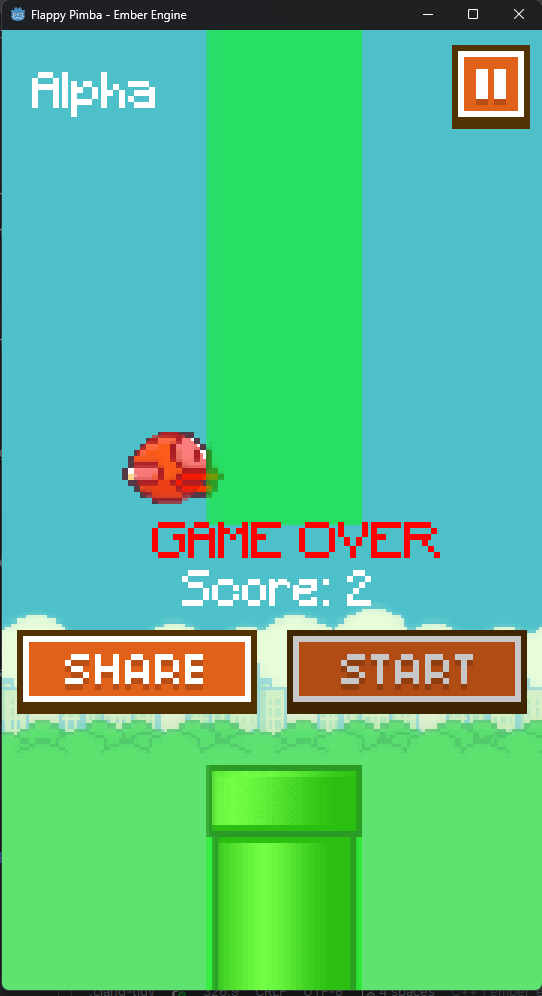
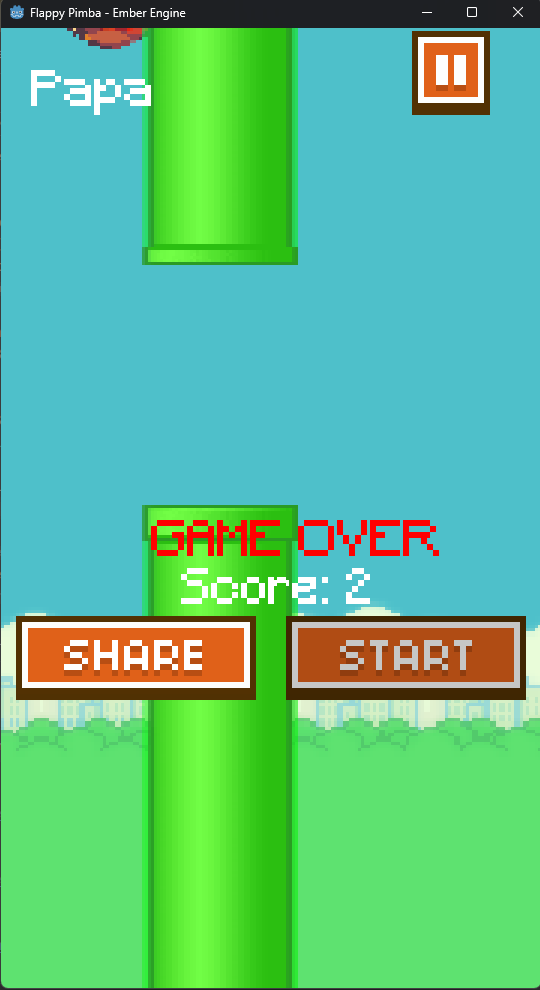
fix: top pipe sprite

diff --git a/game/main.cpp b/game/main.cpp
@@ -119,19 +119,19 @@ void spawn_pipe() {
         top_pipe->set_layer(1);
         top_pipe->set_collision_mask((1 << 0));
 
-        float top_body_center_y = gap_top - (top_height / 2.0f);
+        float top_body_center_y = gap_top * 0.5f;
         top_pipe->set_transform({{spawn_x, top_body_center_y}, {1.f, 1.f}, 0.0f});
-        //
-        // Sprite2D* top_sprite = new Sprite2D(pipe_texture);
-        // top_sprite->set_region({0, 0, 52, 320}, {PIPE_WIDTH, top_height});
-        // top_sprite->set_transform({{-PIPE_WIDTH * 0.5f,0}, {1.f, 1.f}, 0.0f});
-        // top_sprite->set_flip_vertical(true);
-        // top_pipe->add_child("Sprite", top_sprite);
 
+        Sprite2D* top_sprite = new Sprite2D(pipe_texture);
+        top_sprite->set_region({0, 0, 52, 320}, {PIPE_WIDTH, top_height});
+        top_sprite->set_flip_vertical(true);
+
+        top_pipe->add_child("Sprite", top_sprite);
         ctx.root->add_child("TopPipe", top_pipe);
     }
 
-    float bottom_height = GEngine->Config.get_viewport().height - gap_bottom;
+    float screen_h = GEngine->Config.get_viewport().height;
+    float bottom_height = screen_h - gap_bottom;
     if (bottom_height > 0.0f) {
         RigidBody2D* bottom_pipe = new RigidBody2D();
         bottom_pipe->body_type   = BodyType::KINEMATIC;
@@ -141,12 +141,13 @@ void spawn_pipe() {
         bottom_pipe->set_layer(1);
         bottom_pipe->set_collision_mask((1 << 0));
 
-        float screen_h = GEngine->Config.get_viewport().height;
-        bottom_pipe->set_transform({{spawn_x, screen_h - bottom_height / 2.0f}, {1.f, 1.f}, 0.0f});
+        float bottom_body_center_y = gap_bottom + bottom_height * 0.5f;
+        bottom_pipe->set_transform({{spawn_x, bottom_body_center_y}, {1.f, 1.f}, 0.0f});
 
         Sprite2D* bottom_sprite = new Sprite2D(pipe_texture);
         bottom_sprite->set_region({0, 0, 52, 320}, {PIPE_WIDTH, bottom_height});
-        bottom_sprite->set_transform({{-PIPE_WIDTH * 0.5f, -bottom_height * 0.5f}, {1.f, 1.f}, 0.0f});
+        // align sprite with body center
+        bottom_sprite->set_transform({{0, 0}, {1.f, 1.f}, 0.0f});
 
         bottom_pipe->add_child("Sprite", bottom_sprite);
         ctx.root->add_child("BottomPipe", bottom_pipe);
@@ -284,6 +285,8 @@ int main(int argc, char* argv[]) {
         return SDL_APP_FAILURE;
     }
 
+    auto viewport = GEngine->Config.get_viewport();
+
     ctx.renderer = GEngine->get_renderer();
 
     ctx.renderer->load_font("fonts/Minecraft.ttf", "mine", 16);
@@ -304,20 +307,20 @@ int main(int argc, char* argv[]) {
     Node2D* root = new Node2D("Root");
 
     Sprite2D* background = new Sprite2D(bg_tex);
-    background->set_transform({{0, 0}, {1, 1}, 0.0f});
-    background->set_region({0, 0, 288, 512}, {180, 320});
+    background->set_transform({{viewport.width * 0.5f, viewport.height * 0.5f}, {1.f,1.f}, 0.0f});
+    background->set_region({0, 0, 288, 512}, {viewport.width, viewport.height});
     background->set_z_index(-1);
     root->add_child("Background", background);
 
     RigidBody2D* player = new RigidBody2D();
     player->body_type   = BodyType::DYNAMIC;
     player->body_size   = {16, 16};
-    player->offset      = {16, 12};
+    // player->offset      = {16, 12};
     player->shape_type  = ShapeType::CIRCLE;
     player->radius      = 12;
     player->set_layer(0);
     player->set_collision_layers({1});
-    player->set_transform({{40, GEngine->Config.get_viewport().height / 2}, {1.f, 1.f}, 0.0f});
+    player->set_transform({{40, viewport.height / 2}, {1.f, 1.f}, 0.0f});
 
     auto texture            = ctx.renderer->load_texture("flappy/sprites/yellowbird-midflap.png");
     Sprite2D* player_sprite = new Sprite2D(texture);
@@ -329,24 +332,24 @@ int main(int argc, char* argv[]) {
     name->set_transform({{10, 10}, {1.f, 1.f}, 0.0f});
 
     Label* game_info = new Label("mine", "None");
-    game_info->set_transform({{50, GEngine->Config.get_viewport().height / 2}, {1.f, 1.f}, 0.0f});
+    game_info->set_transform({{50, viewport.height / 2}, {1.f, 1.f}, 0.0f});
     game_info->change_visibility(false);
     game_info->set_z_index(1001);
 
     Sprite2D* pause_btn = new Sprite2D(pause_tex);
-    pause_btn->set_transform({{GEngine->Config.get_viewport().width - 30, 5}, {1.f, 1.f}, 0.0f});
+    pause_btn->set_transform({{viewport.width - 30, 15}, {1.f, 1.f}, 0.0f});
     pause_btn->set_z_index(1001);
 
     Sprite2D* share_btn = new Sprite2D(share_tex);
-    share_btn->set_region({0, 0, 80, 28}, {80, 28});
-    share_btn->set_transform({{5, game_info->get_transform().position.y + 40}, {1.f, 1.f}, 0.0f});
+    // share_btn->set_region({0, 0, 80, 28}, {80, 28});
+    share_btn->set_transform({{45, game_info->get_transform().position.y + 50}, {1.f, 1.f}, 0.0f});
     share_btn->change_visibility(false);
     share_btn->set_z_index(1001);
 
     Sprite2D* start_btn = new Sprite2D(start_tex);
     start_btn->set_color({200, 200, 200, 255});
-    start_btn->set_region({0, 0, 80, 28}, {80, 28});
-    start_btn->set_transform({{95, game_info->get_transform().position.y + 40}, {1.f, 1.f}, 0.0f});
+    // start_btn->set_region({0, 0, 80, 28}, {80, 28});
+    start_btn->set_transform({{135, game_info->get_transform().position.y + 50}, {1.f, 1.f}, 0.0f});
     start_btn->change_visibility(false);
     start_btn->set_z_index(1001);
 
